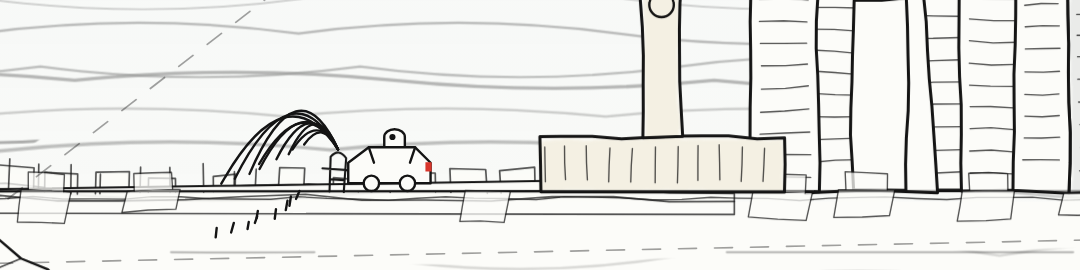
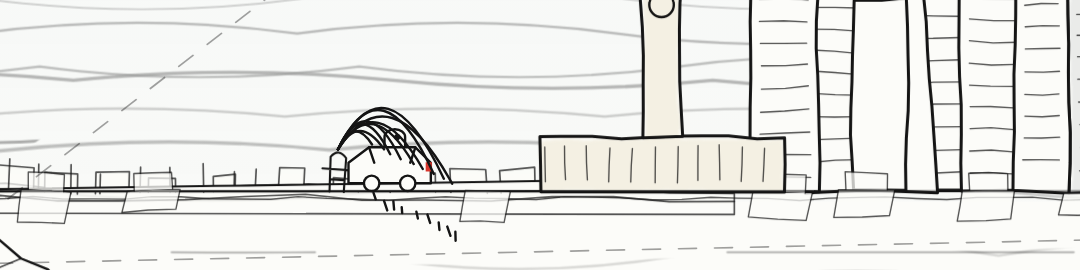
Mockup: dawn and dusk set by the sun's altitude, hydrant spray arcs over the car
The hour chooser pinned dusk to 19:18, which after the September shift in sunset fell in the light just after sundown. Dawn and dusk are now the minute today when the sun is 7.5 degrees below the horizon. The spray turns east over the car, away from the lighthouse at the edge of the city view.

diff --git a/docs/mockup/index.html b/docs/mockup/index.html
@@ -1020,6 +1020,12 @@ header.top{display:flex;align-items:baseline;justify-content:space-between;gap:1
     }
     return now;
   }
+  // dawn and dusk in the hour chooser are set by the sun and not the clock, since sunset moves by two hours over the year: each is the
+  // minute today when the sun is 7.5 degrees below the horizon, which is after dark in the drawing, with the purple and orange sky low down
+  function twilight(evening){ const keep = HOUR; let best = evening ? 19.5 : 6.5, gap = 99;
+    for (let m = evening ? 15*60 : 3*60; m < (evening ? 23*60 : 10*60); m += 2){ HOUR = m/60; const a = sunPosition(sfNow()).alt, d = Math.abs(a + 7.5);
+      if (d < gap){ gap = d; best = HOUR; } }
+    HOUR = keep; return Math.round(best*60)/60; }
   function sfClock(d){ return new Intl.DateTimeFormat("en-US",{timeZone:"America/Los_Angeles",hour:"2-digit",minute:"2-digit",hour12:false}).format(d); }
   function sunPosition(d, haShift=0, decScale=1){
     const n = d.getTime()/86400e3 - 10957.5;                                  // days since J2000
@@ -1167,7 +1173,7 @@ header.top{display:flex;align-items:baseline;justify-content:space-between;gap:1
   setInterval(()=>{ fetchObservation().then(o=>{ if (o){ LIVE = o; if (!FORCED) OBS = o; } drawSky(OBS, stage.dataset.view); }); }, 600e3);
   // the exploring strip: force a sky or an hour, for looking, not for the page
   (function lab(){
-    const skies = ["live","clear","light cloud","overcast","fog","thick fog","rain","wind","storm"], hours = [["now",null],["dawn",6.5],["morning",9],["midday",12.5],["afternoon",16],["dusk",19.3],["night",22.5]];
+    const skies = ["live","clear","light cloud","overcast","fog","thick fog","rain","wind","storm"], hours = [["now",null],["dawn",twilight(false)],["morning",9],["midday",12.5],["afternoon",16],["dusk",twilight(true)],["night",22.5]];
     const row = (host, items, pick) => items.forEach(([label, v]) => { const b = document.createElement("button"); b.textContent = label; b.onclick = ()=>{ pick(v); host.querySelectorAll("button").forEach(x=>x.classList.toggle("on", x===b)); drawSky(OBS, stage.dataset.view); }; host.appendChild(b); });
     row($("#lab-sky"), skies.map(k=>[k,k]), k=>{ FORCED = k === "live" ? null : k; OBS = FORCED ? skyFor(FORCED) : LIVE; });
     row($("#lab-hour"), hours, h=>{ HOUR = h; });
@@ -1392,8 +1398,9 @@ header.top{display:flex;align-items:baseline;justify-content:space-between;gap:1
       el("circle", {cx:-15.5, cy:-5.5, r:1.5, class:"carlight lamp", style:"fill:#FFF6D2;stroke:none"}, car);
       el("rect", {x:14, y:-8.2, width:2.4, height:3.6, class:"tail", style:"fill:#D8352B;stroke:none"}, car);
       const dome = el("circle", {cx:2, cy:-18, r:1.2, class:"solid"}, car); let d = 0; const spin = setInterval(()=>{ dome.setAttribute("cx", 2 + Math.cos(d+=.6)*3); }, 80);
-      // the water, from the drawn hydrant's cap, pouring toward the car
-      const spout = el("g", {class:"thin", transform:`translate(${hx},${hy}) scale(${-k},${k})`}, life); spout.style.opacity = 0;
+      // the water, from the drawn hydrant's cap, arcing over the car that hit it; the car stops on the hydrant's east side, and west of it
+      // the lighthouse stands at the edge of the view, so the spray goes east, where there is room for it
+      const spout = el("g", {class:"thin", transform:`translate(${hx},${hy}) scale(${k},${k})`}, life); spout.style.opacity = 0;
       let flow = 1;
       const sprayD = i => { const j = (.85 + Math.random()*.3)*flow, h = (14 + i*3)*j, r = (14 + i*4)*(.9 + Math.random()*.2)*(.35 + .65*flow); return `M0 -17 q ${(r*.45).toFixed(1)} ${(-h).toFixed(1)} ${r.toFixed(1)} ${(-2 + i*2).toFixed(1)} M${(r + Math.random()*2).toFixed(1)} ${(-1 + i*2 + Math.random()*3).toFixed(1)} l ${(Math.random()*1.5).toFixed(1)} ${(2 + Math.random()*2).toFixed(1)}`; };
       const arcs = []; for (let i=0;i<9;i++) arcs.push(el("path", {d:sprayD(i)}, spout));
